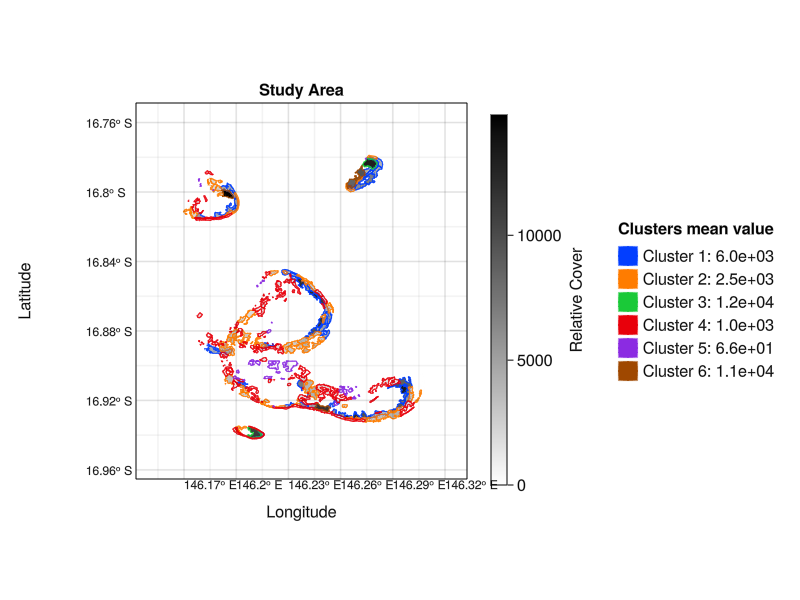
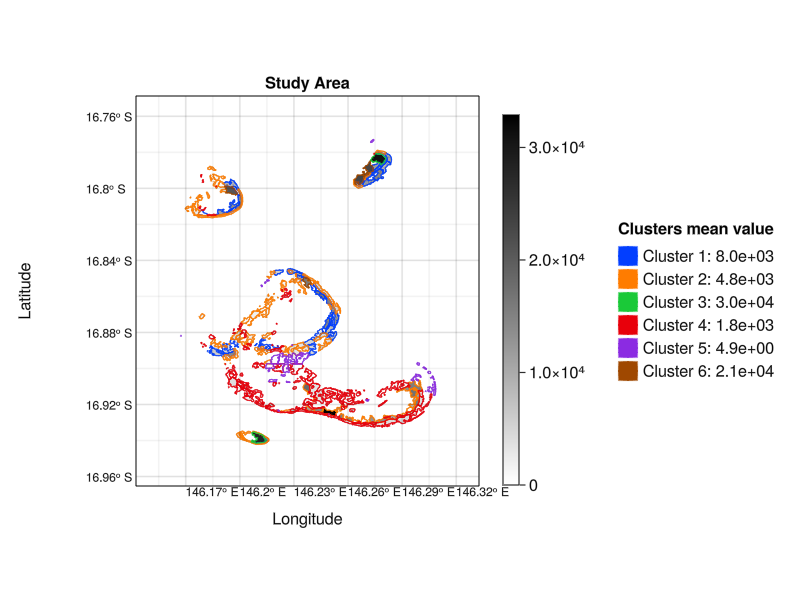
Update Doc time series clustering map subsection

diff --git a/docs/src/usage/analysis.md b/docs/src/usage/analysis.md
@@ -216,15 +216,18 @@ using Statistics
 # Extract metric from scenarios
 tac = ADRIA.metrics.total_absolute_cover(rs)
 
-# Summarize scenarios for each site
-m_tac = ADRIA.metrics.loc_trajectory(median, tac)
+# Get a timeseries summarizing the scenarios for each site
+tac_site_series = ADRIA.metrics.loc_trajectory(median, tac)
 
 # Cluster scenarios
 n_clusters = 6
-loc_clusters = ADRIA.analysis.time_series_clustering(rs, m_tac, n_clusters)
+clusters = ADRIA.analysis.time_series_clustering(tac_site_series, n_clusters)
+
+# Get a vector summarizing the scenarios and timesteps for each site
+tac_sites = ADRIA.metrics.per_loc(median, tac)
 
 # Plot figure
-tsc_map_fig = ADRIA.viz.map(rs, m_tac, loc_clusters)
+tsc_map_fig = ADRIA.viz.map(rs, tac_sites, clusters)
 
 # Save final figure
 save("tsc_map.png", tsc_map_fig)
